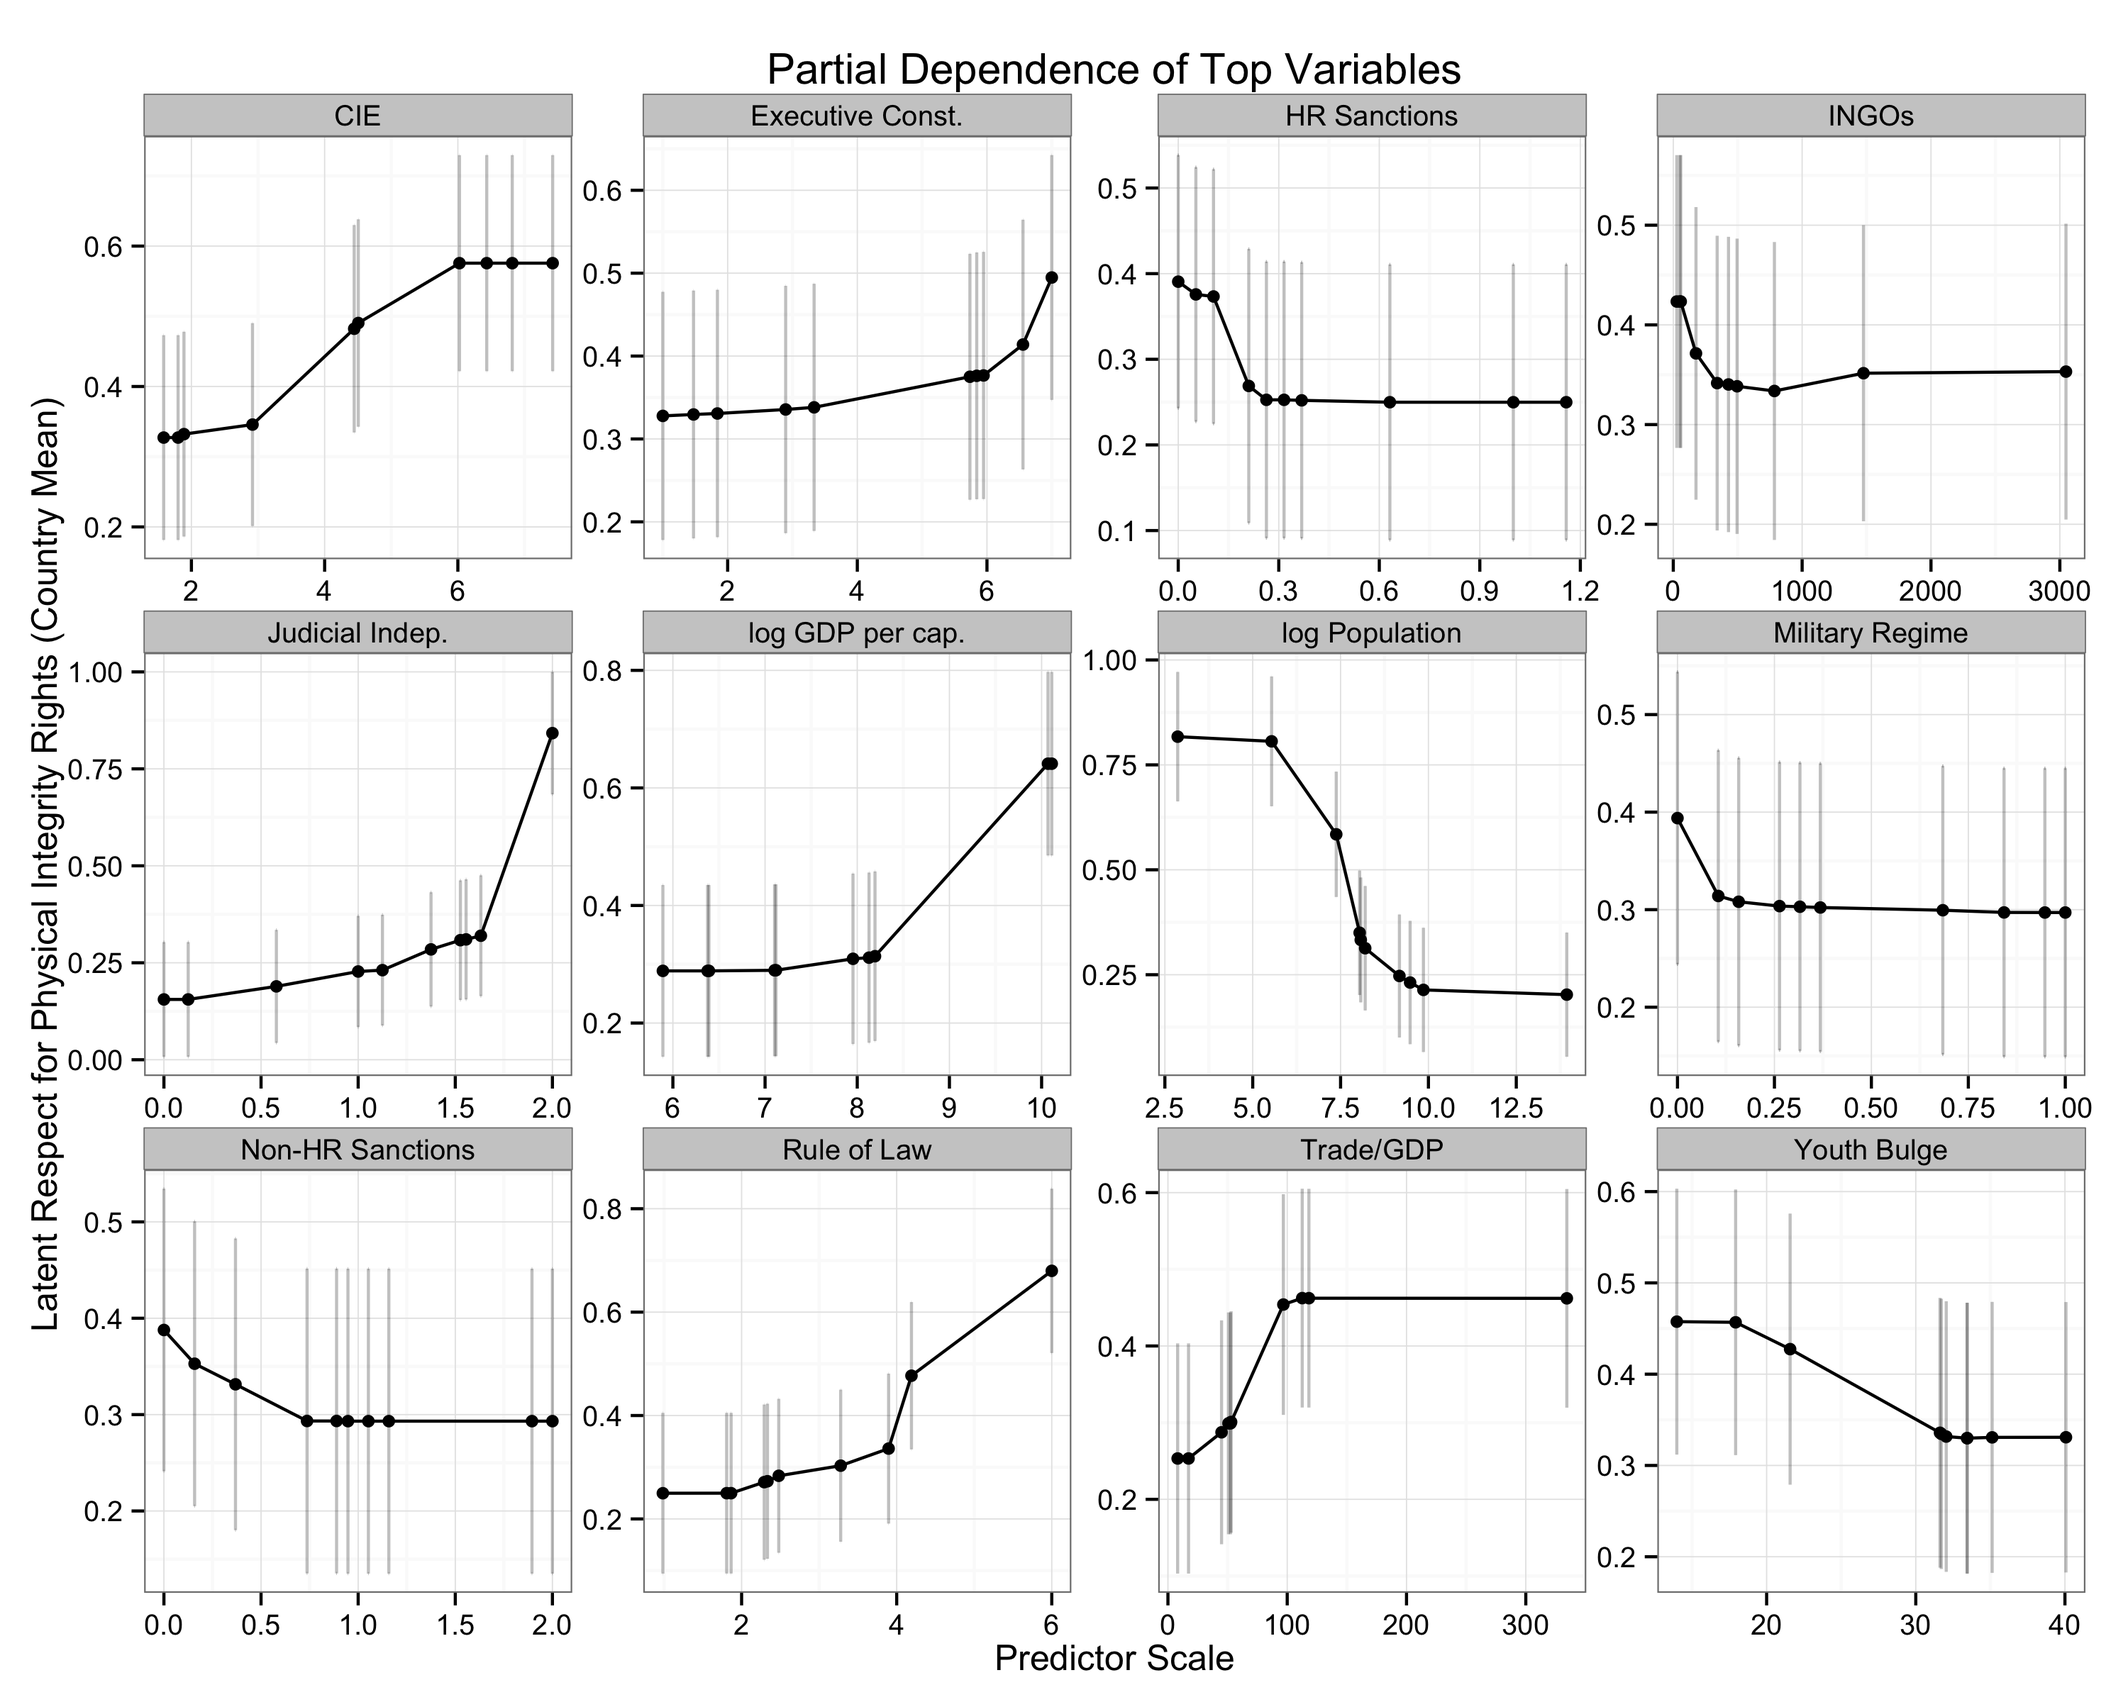
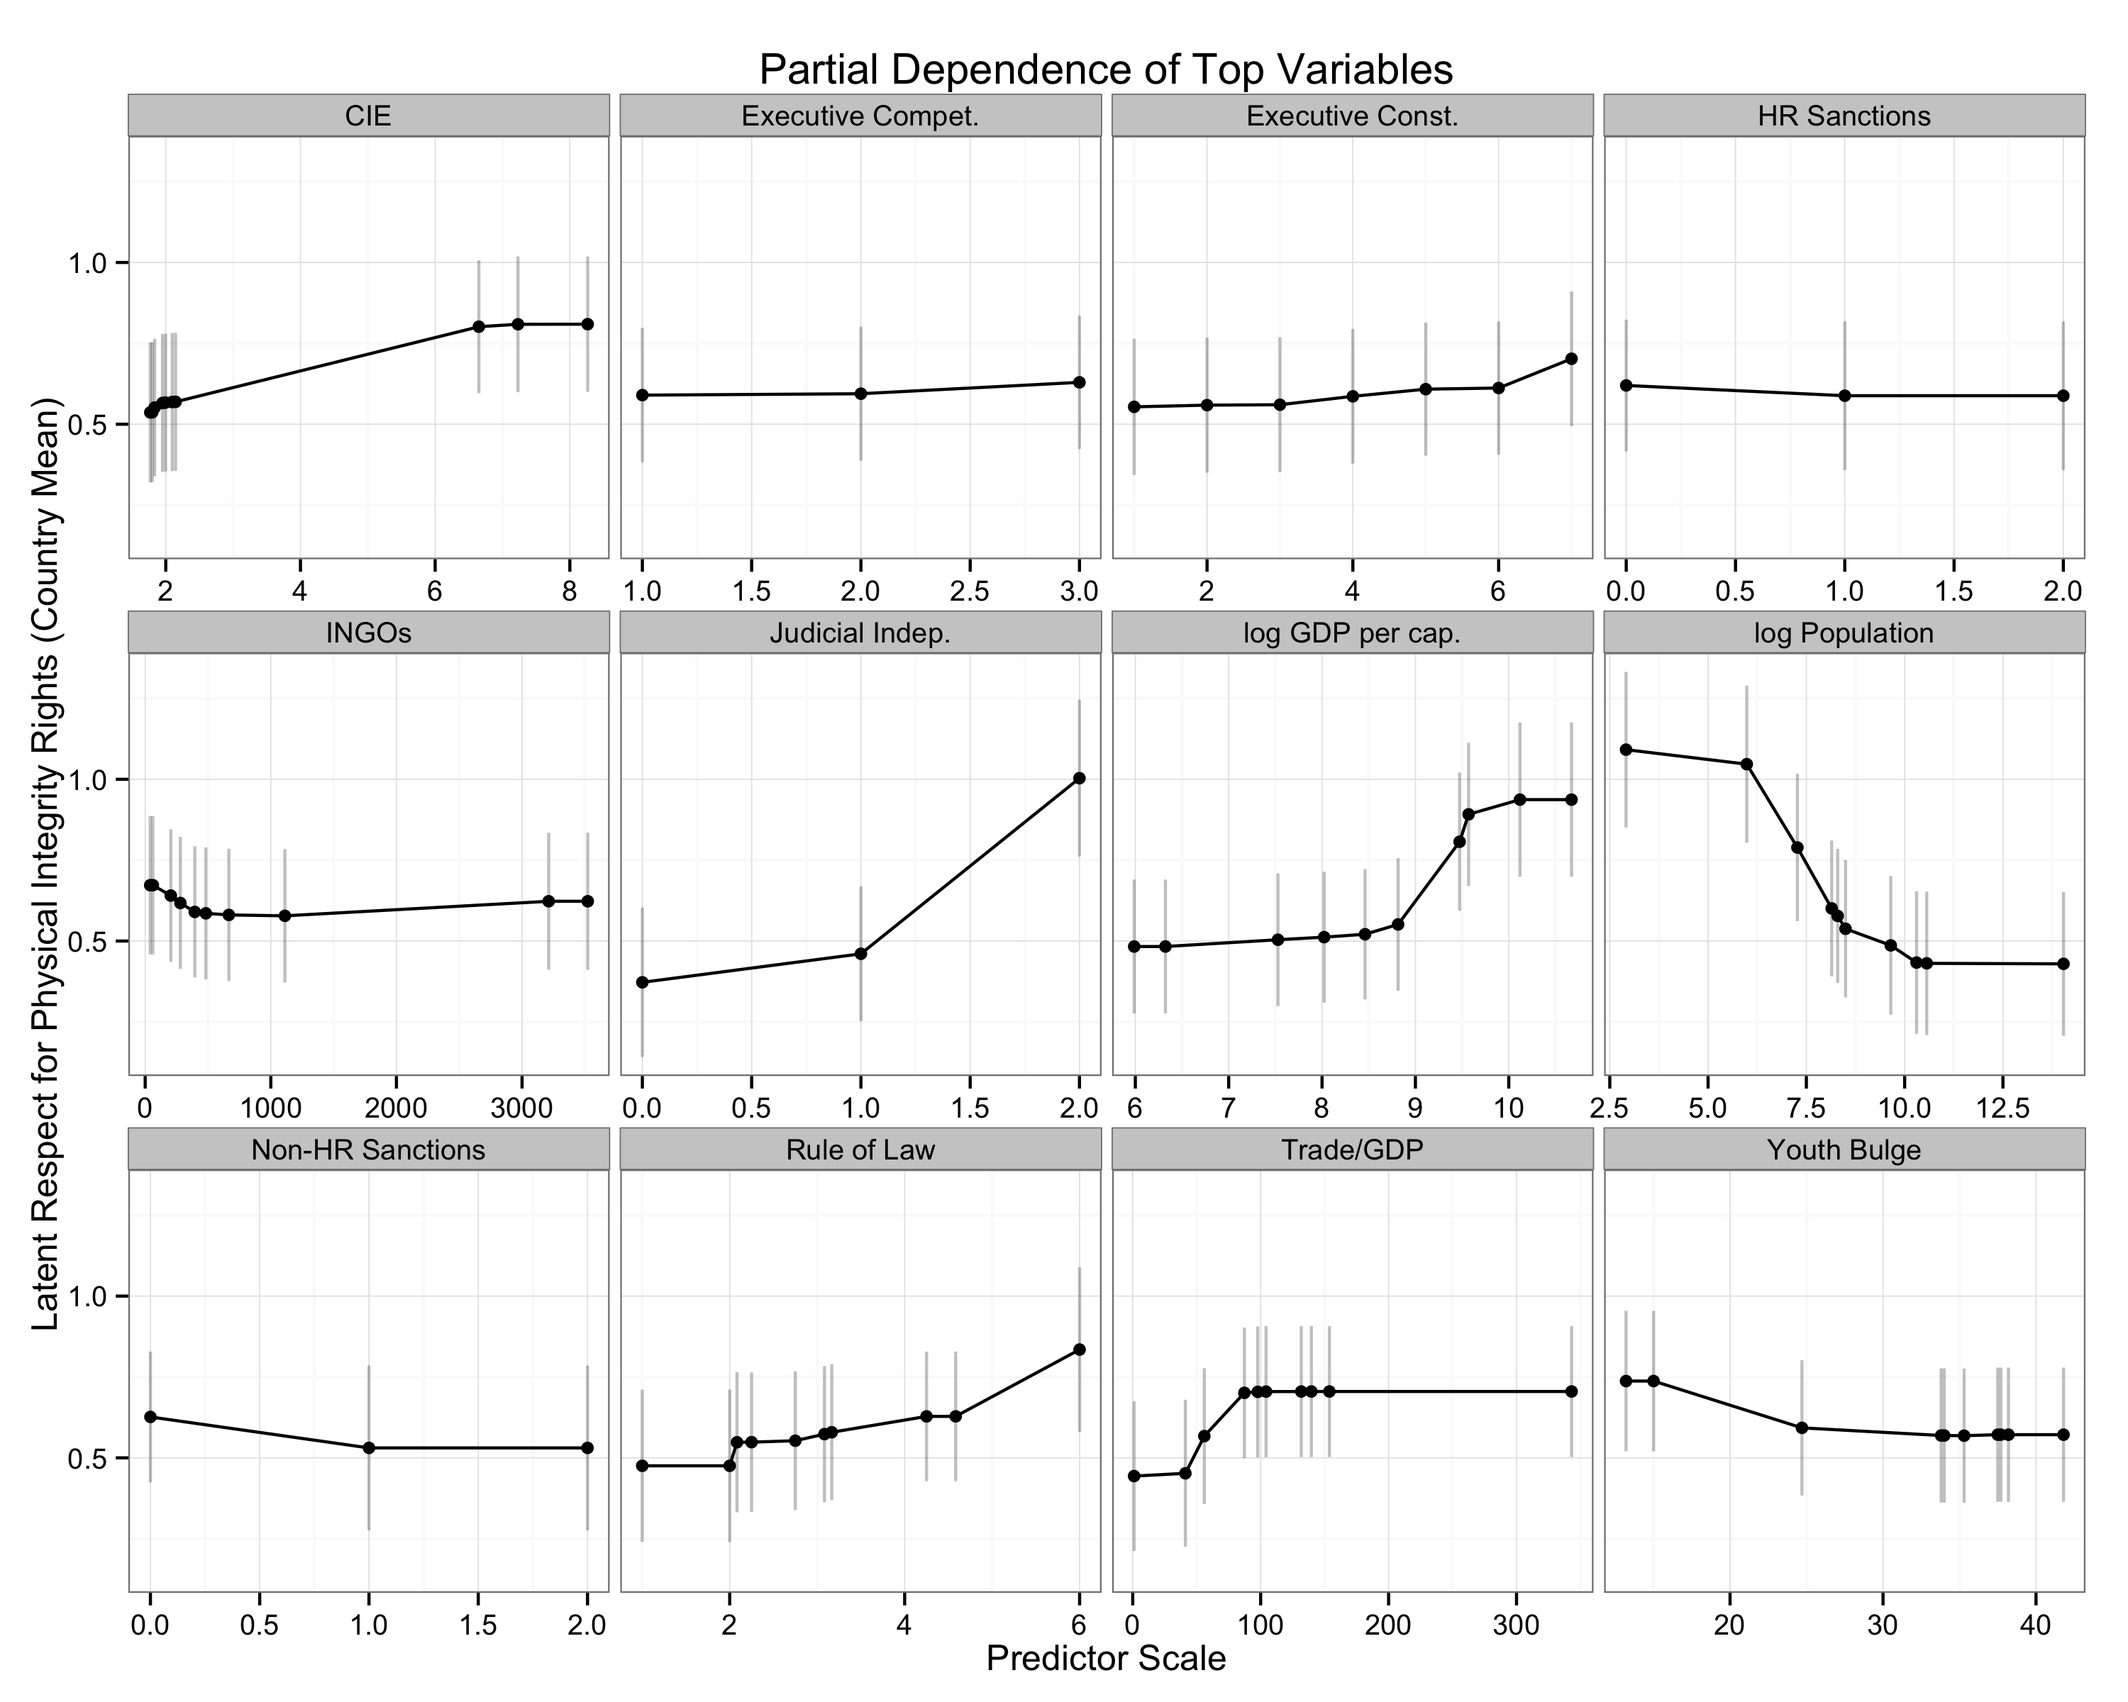
example triage
- only cond version of prisoner example (can change if needed)
 - added back hr stuff only for 1999 (prox somehow broken, will work on
   this)
 - added back some (most?) of the hr text, i assume lots of this can be
 - chopped down

diff --git a/rfss_manuscript.md b/rfss_manuscript.md
@@ -4,7 +4,7 @@
 [^contact]: Zachary M. Jones is a Ph.D. student in political science at Pennsylvania State University ([zmj@zmjones.com](mailto:zmj@zmjones.com)). Fridolin Linder is a Ph.D. student in political science at Pennsylvania State University ([fridolin.linder@gmail.com](mailto:fridolin.linder@gmail.com)).
 
 \begin{abstract}
-As computational power has increased machine learning algorithms have seen wider use in many disciplines, however, they are still widely considered to be "black box" models that are not suited for substantive research; only prediction. We argue that this need not be the case, and present one method, random forests, with an emphasis on practical application for exploratory analysis and substantive interpretation. Random forests detect interaction and nonlinearity without prespecification, have low generalization error in simulations and in many real-world problems, and can be used with many correlated predictors, even when there are more predictors than observations. Importantly, random forests can be interpreted in a substantively relevant way with variable importance measures, bivariate and multivariate partial dependence, proximity matrices, and several other methods for interaction detection. We provide intuition as well as technical detail about how random forests work, in theory and in practice, as well as an empirical example from the literature on American politics. Importantly, we provide software implementing the methods we discuss to facilitate their use. Lastly, we provide guidance on when random forests may be useful.
+As computational power has increased machine learning algorithms have seen wider use in many disciplines, however, they are still widely considered to be "black box" models that are not suited for substantive research; only prediction. We argue that this need not be the case, and present one method, random forests, with an emphasis on practical application for exploratory analysis and substantive interpretation. Random forests detect interaction and nonlinearity without prespecification, have low generalization error in simulations and in many real-world problems, and can be used with many correlated predictors, even when there are more predictors than observations. Importantly, random forests can be interpreted in a substantively relevant way with variable importance measures, bivariate and multivariate partial dependence, proximity matrices, and several other methods for interaction detection. We provide intuition as well as technical detail about how random forests work, in theory and in practice, as well as an empirical example from the literature on american and comparative politics. Importantly, we provide software implementing the methods we discuss to facilitate their use. Lastly, we provide guidance on when random forests may be useful.
 \end{abstract}
 
 \clearpage
@@ -97,10 +97,11 @@ Missing values are a perennial problem in real world data. Often missingness is 
 
 In this section we demonstrate the utility of random forests and the methods to interpret them substantively. We explain various methods that can be used to extract substantive interpretations from random forests. Due to the complexity of the algorithm, the output produced by the fitting routine is not very informative. Visual inspection of single trees of the ensemble is not usually useful, since they are only fit to parts of the data and might not use all predictors. The whole forest cannot be interpreted without more specialized methods.
 
-In order to illustrate the practical application of random forests for EDA, we use data from a recent turnout study on released prisoners [@gerber2014can]. The dataset contains information on four covariates as well as the three experimental groups. The study contains over 5000 former inmates from Conneticut prisons that were released and whose voting righs have been restored. The authors sent letters with two different treatments (the control group was not contacted), encouraging them to register and vote. Turnout and registration rates were recorded. The authors found that their treatment had positive effects on registration and turnout. We chose this data set, to show that random forests are usful not only in classical data mining applicatons with large numbers of predictors, but also for analysis in more standard political science applications. 
-In our exploratory analysis we find evidence that the treatment affected the probability of registration and voting by persons recently released from prison more so than those who had been out for than more than 1 year. Additionally, we find that the probability of registration and voting is a mostly increasing function of age and a mostly decreasing function of the time since release. However, we note that our understanding of what differentiates ex-felons that vote (when they are able) from those that are not is lacking, as shown by our inability to classify individuals into those that did register or vote and those that did not. This is unsurprising given the small number of explanatory variables available for this task, the baseline rate at which this population of ex-felons voted in 2008 (roughly $0.05$).[^loss] It is easier to predict whether or not individuals voted given that they have registered to do so.
+In order to illustrate the practical application of random forests for EDA, we use data from a recent turnout study on released prisoners [@gerber2014can]. This dataset contains information on four covariates as well as the three experimental groups, and over 5000 former inmates from Conneticut prisons that were released and whose voting righs have been restored. The authors sent letters with two different treatments (the control group was not contacted), encouraging them to register and vote. Turnout and registration rates were recorded. The authors found that their treatment had positive effects on registration and turnout. We chose this data set, to show that random forests are usful not only in classical data mining applicatons with large numbers of predictors, but also for analysis in more standard political science applications.
 
-[^loss]: The number of misclassifications of those that did vote/register can be discreased by weighting the loss function appropriately, which can be accomplished by undersampling those that didn't vote or register, oversampling those that did, or by directly incorporating asymmetric costs into the loss function.
+We also consider data from a recent study of cross-national patterns of state repression [@hill2014empirical]. Quantitative analysis of cross-national patterns of state repression relies on annual country reports from Amnesty International and the United States Department of State, which are used to code ordinal measures of state repression such as the Cingranelli and Richards Physical Integrity Index and the Political Terror Scale [@ciri2010; @woodgibney2010]. We use the measure from @fariss2014 which is based on a dynamic measurement model, which aggregates information from multiple sources on state repression in each country-year into a continuous measure. We use the data from 1981 to 1999, however, since this measure is strongly autocorrelated over time within countries, and we prefer to investigate cross-sectional differences, we aggregate aggregate our explanatory variables and the latent measure of respect for physical integrity rights to the country level by taking the mean within countries. We use a set of explanatory variables that differs slightly from that of @hill2014empirical, containing some predictors that may be relevant but were ommitted, and some predictors, such as the participation competitiveness component of Polity IV, and binary indicators for civil war, which have conceptual overlap with respect for physical integrity rights and should be ommitted on those grounds [@hill2014empirical; @hill2014democracy;]. This data is well suited for exploratory data analysis using random forests because we have no expectation that the relationship between any particular predictor (that is not binary) will have a linear (or even smooth) relationship with our measure of respect for physical integrity rights, nor do we have expectations about the number or size of any interactions that may be present in the data. However, we would like to discover such relationships if they exist. Additionally, by studying the latent similarity of countries in the predictor space, we hope to notice features of countries close in this space which we do not have data on, and might be fruitful areas of future research.
+
+The literature on state repression has, like most areas of political science, been dominated by the specification of parametric data models. A particular stochastic model for the data is assumed, and the parameters of the model are estimated using the data on hand. Then statistical inference about the model's parameters is used to support claims about the generality of the results (implicitly about causality or population quantities). It seems unlikely that the assumed model of the data generating process is correctly specified or even a reasonable approximation given the complexity of the dynamics of dissent and repression leaving open the question of what can be learned from estimates of parameters that govern such models absent strong predictive validity. We think that researchers often sell the predictive power of their theories short by making strict assumptions about functional form that are not a part of their theory. Furthermore, this example builds on the analysis of @hill2014empirical by examining the substantive relationships between the set of explanatory variables and Fariss' measure of state repression; only the marginal permutation importance is considered in the original paper.
 
 ### Permutation Importance
 
@@ -148,7 +149,9 @@ The average predictions obtained from this method are more than just marginal re
 
 ![The partial dependence of . \label{fig:registered_pd}](figures/pd_registered.png)
 
-Figure \ref{fig:registered_pd} shows partial dependence applied to a random forest fit to the prisoners voting experiment. The partial dependence plot reveals that ... To reiterate, the plot displays the values of the explanatory variable on the x-axis, against the average prediction from the forest, obtained from the procedure described above. 
+Figure \ref{fig:registered_pd} shows partial dependence applied to a random forest fit to the prisoners voting experiment. The partial dependence plot reveals that ... To reiterate, the plot displays the values of the explanatory variable on the x-axis, against the average prediction from the forest, obtained from the procedure described above.
+
+![The partial dependence of the country mean level of latent respect for physical integrity rights by country on World Bank structural adjustment programs, economic sanctions that do not call for increases in respect for physical integrity rights, sanctions which do have such a requirement, whether or not a military regime is in power, the level of executive constraint, the proportion of male youth aged 15-25, contract intensive economy (CIE, a measure of life insurance contracting used by @mousseau2008contracting (from @beck2003economic)), the ratio of trade to gross domestic product (GDP), the "rule of law", the natural log of GDP per capita and population, and judicial independence. Note that the scale of $y$ differs for each sub-plot. The relationship between each predictor and the response is averaged within the joint values of the other predictors conditional on the relationships discovered by the random forest. \label{fig:latent_pd}](figures/latent_pd.png)
 
 We use a (Monte-Carlo) bias-corrected infinitesimal jackknife to obtain variance estimates for the partial dependence predictions [@wager2014confidence; @efron1981nonparametric; @efron2014estimation]. The variance is obtained by applying an infinitesimal jackknife estimator to obtain variance estimates, based on the bootstrap samples that are used to fit the forest [@efron2014estimation]. Since this estimator contains additional variation due to the fact that every forest consists of only a finite number of trees, this estimator corrects for this Monte-Carlo induced variation. The method was developed to obtain estimates of the variance in the prediction of a random forest based on the bootstrap samples used for each tree. Since the partial dependence is an averaged prediction from the random forest, we use this method to obtain estimates of the sampling variability in the average predictions for each value of the predictor variable [@sexton2009standard]. Because this variance estimator produces a confidence interval for each prediction, we average over these intervals to obtain a confidence interval for the average prediction.
 
